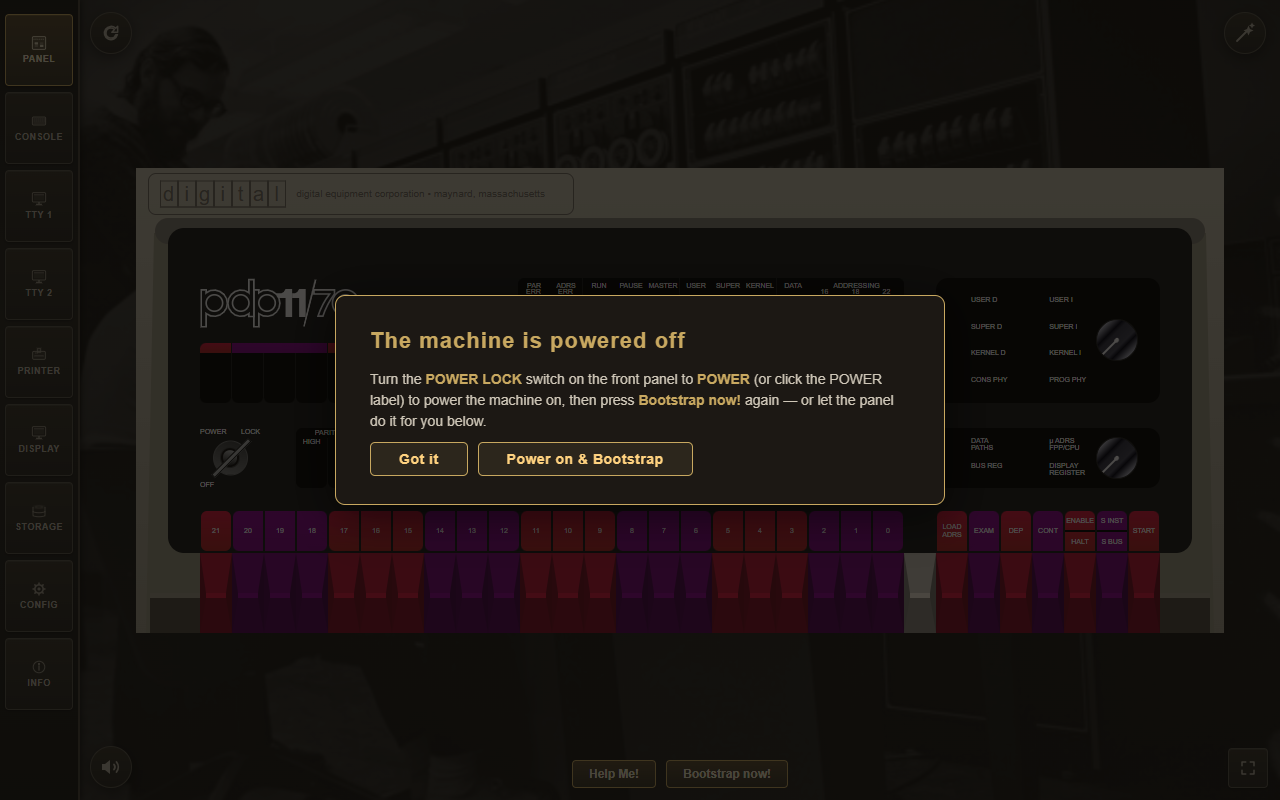
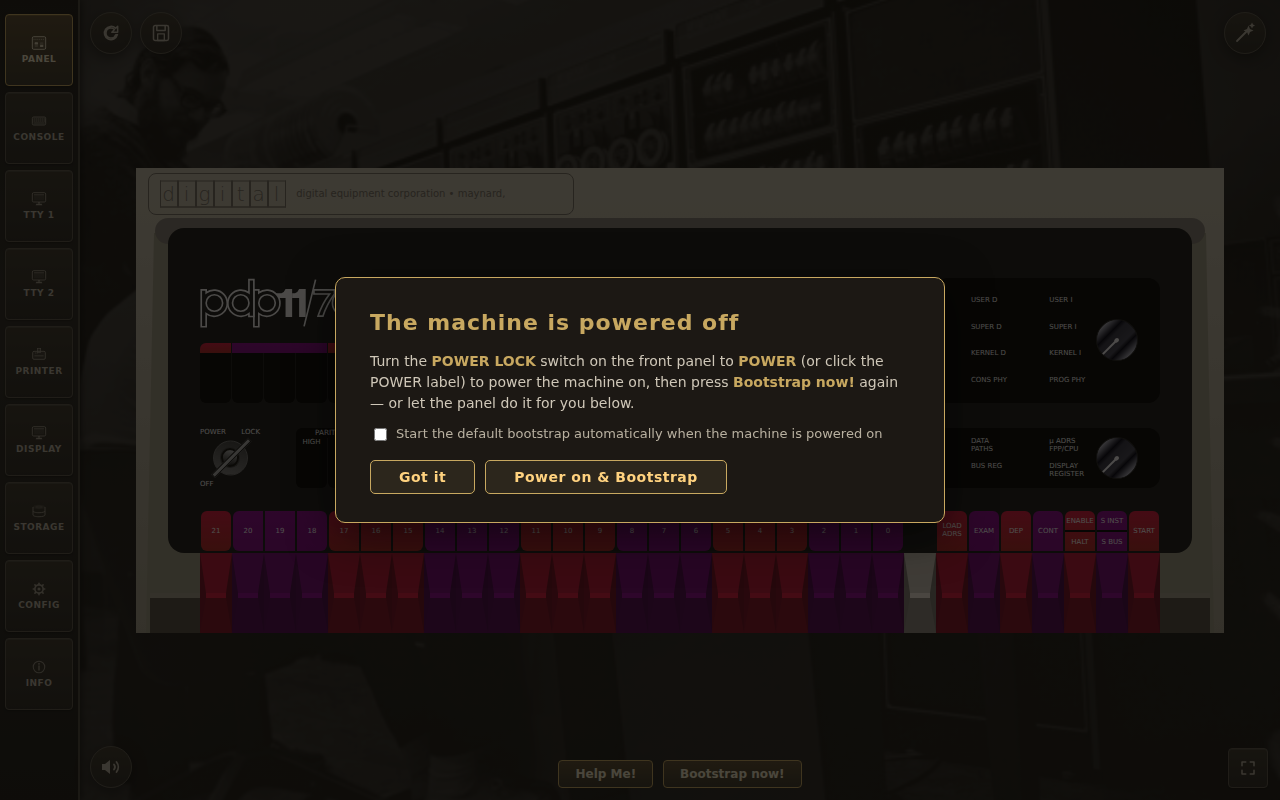
Docs: machine-state (STATE button) in README + manual; refresh screenshots
Reflect the recent UI changes in the user documentation (per Alexei):

- manual.html: new 'Machine State (STATE button)' section (full save/restore
  of the emulated machine: CPU, memory, I/O devices, paper, VT52 screens,
  VT11 picture; Save state / Load / Rename / Delete; states in IndexedDB),
  STATE row in the floating-controls table with its close-up, REBOOT/STATE
  visibility note (Panel, Console, TTY pages), onboarding paragraph mentions
  the new Quick boot button, power-off dialog paragraph documents the
  Auto-boot checkbox shortcut.
- README.md: machine-state paragraph next to REBOOT; quick-boot section
  notes the welcome-dialog Quick boot button.
- tools/screenshots-manual.js: btn-state.png close-up added to the button
  shots; dialog-state.png capture (STATE dialog with one saved state) added
  to the dialog set; CLI selector now matches file names with and without
  the .png suffix (single-shot mode for page shots was broken); launch
  honours PUPPETEER_NO_SANDBOX=1 for sandboxed CI/container environments.
- Regenerated: panel, storage, console-vt52 (STATE button now visible),
  dialog-onboarding (Quick boot button), dialog-poweroff (Auto-boot
  checkbox); new: btn-state, dialog-state.

Screenshot DOM states verified with a puppeteer pass (onboarding buttons,
power-off checkbox, state dialog with one entry). npm test exit 0.

diff --git a/manual.html b/manual.html
@@ -287,6 +287,7 @@
                 <li><a href="#printer">The LP11 Line Printer (Printer page)</a></li>
                 <li><a href="#vt11">The VT11 Vector Display (Display page)</a></li>
                 <li><a href="#storage">Storage (paper tape, disk & tape images)</a></li>
+                <li><a href="#machine-state">Machine State (STATE button)</a></li>
                 <li><a href="#config">Configuration (Config page)</a></li>
                 <li><a href="#guest-oses">Guest Operating Systems</a></li>
                 <li><a href="#controls">Buttons, Shortcuts & Indicators</a></li>
@@ -300,7 +301,9 @@
 
             <p>
                 On your very first launch the emulator greets you with a short onboarding hint that explains what to do
-                right away — which page to open, the mounted guest OSes and their boot commands:
+                right away — which page to open, the mounted guest OSes and their boot commands. A <b>Quick boot</b>
+                button next to <b>Got it</b> opens the wizard directly, so a first-time user can see a guest OS running
+                in one click:
             </p>
 
             <p><img class="shot" src="assets/images/manual/dialog-onboarding.png" alt="First-run onboarding hint"></p>
@@ -383,6 +386,12 @@
             <p><img class="shot" src="assets/images/manual/dialog-poweroff.png" alt="Bootstrap now! power-off guard">
             </p>
             <p class="shot-caption">Bootstrap now! requires the machine to be powered on first.</p>
+
+            <p>
+                The dialog also offers a shortcut to the CONFIG <b>Auto-boot</b> option: tick the checkbox to start
+                the default bootstrap automatically on every future power-on, without visiting the Config page. The
+                choice persists and stays in sync with the CONFIG page checkbox.
+            </p>
 
             <hr>
 
@@ -538,6 +547,37 @@
                 <em>Note:</em> the paper-tape reader is driven by the console bytes — every byte echoed to the console
                 punches a matching row of holes on the ASR paper tape.
             </blockquote>
+
+            <hr>
+
+            <h2 id="machine-state">Machine State (STATE button)</h2>
+
+            <p>
+                The round <b>STATE</b> button (top-left corner, right of REBOOT) opens the machine-state dialog — a
+                full save/restore of the emulated PDP‑11, not just the CPU: registers, memory, every I/O device
+                (console, terminals, printer, disks, tape and the paper-tape reader/punch), the paper in the teletype
+                and LP11, the VT52 screen contents and even the VT11 vector-display picture are all captured. Think of
+                it as a save file of the whole machine.
+            </p>
+
+            <p><img class="shot" src="assets/images/manual/dialog-state.png" alt="The machine-state dialog"></p>
+            <p class="shot-caption">The machine-state dialog with one freshly saved state.</p>
+
+            <ul>
+                <li><b>Save state</b> — captures the machine exactly as it is right now under an auto-generated name
+                    (date and time). The hardware configuration is part of the state: restoring it re-applies the
+                    console type, user terminals, printer and VT11 display, restarting the machine to match.</li>
+                <li><b>Load</b> — restores the selected state and restarts the machine; a confirmation asks first.
+                    States saved by older versions of the emulator keep working.</li>
+                <li><b>Rename / Delete</b> — organise the list or remove states; the counter next to the list shows
+                    how many states you have.</li>
+            </ul>
+
+            <p>
+                The STATE button mirrors REBOOT and is available on the <b>Panel</b>, <b>Console</b> (teletype or
+                VT52) and <b>TTY</b> pages. States are stored in the browser's IndexedDB and survive reloads and
+                sessions.
+            </p>
 
             <hr>
 
@@ -786,10 +826,19 @@
                             <img class="control-btn" src="assets/images/manual/btn-reboot.png" alt="REBOOT button">
                             <span class="control-name">REBOOT</span>
                         </td>
-                        <td>Top-left corner, just right of the sidebar</td>
+                        <td>Top-left corner, just right of the sidebar (Panel, Console and TTY pages)</td>
                         <td>Round button with a restart icon. Restarts the machine; when Auto-boot is enabled it
                             also boots the built-in default loader. By default a confirmation dialog asks first, with
                             a "Don't show this warning anymore" option.</td>
+                    </tr>
+                    <tr>
+                        <td class="disk control-cell">
+                            <img class="control-btn" src="assets/images/manual/btn-state.png" alt="STATE button">
+                            <span class="control-name">STATE</span>
+                        </td>
+                        <td>Top-left corner, right of REBOOT (Panel, Console and TTY pages)</td>
+                        <td>Machine-state dialog — saves and restores the whole emulated machine (CPU, memory,
+                            devices, paper, terminal screens). See <a href="#machine-state">Machine State</a>.</td>
                     </tr>
                     <tr>
                         <td class="disk control-cell">

diff --git a/tools/screenshots-manual.js b/tools/screenshots-manual.js
@@ -156,6 +156,7 @@ const SHOTS_VT52 = [
 const BUTTON_SHOTS = [
     { id: "#quick-boot-btn", file: "btn-magicwand.png" },
     { id: "#reboot-btn",     file: "btn-reboot.png" },
+    { id: "#state-btn",      file: "btn-state.png" },
     { id: "#mute-btn",       file: "btn-mute.png" },
     { id: "#fullscreen-btn", file: "btn-fullscreen.png" }
 ];
@@ -209,12 +210,16 @@ function findBrowserExecutable() {
 
 async function launchBrowser() {
     const executablePath = findBrowserExecutable();
+    // Sandboxed CI/container environments (no unprivileged user namespaces)
+    // need --no-sandbox; opt in via PUPPETEER_NO_SANDBOX=1 so desktop runs
+    // keep the default sandbox.
+    const args = process.env.PUPPETEER_NO_SANDBOX ? ["--no-sandbox"] : [];
     if (executablePath) {
-        return puppeteer.launch({ executablePath, headless: true });
+        return puppeteer.launch({ executablePath, headless: true, args });
     }
     for (const channel of ["msedge", "chrome"]) {
         try {
-            return await puppeteer.launch({ channel, headless: true });
+            return await puppeteer.launch({ channel, headless: true, args });
         } catch (err) { /* try the next channel */ }
     }
     throw new Error(
@@ -440,6 +445,21 @@ async function captureDialogs(browser, wants) {
         });
         await snap(page, "dialog-reboot.png", 600);
     }
+
+    // 8. Machine-state dialog (STATE button) with one freshly saved state.
+    if (wants("dialog-state")) {
+        const page = await open(CFG_TTY);
+        await page.evaluate(() => {
+            const btn = document.getElementById("state-btn");
+            if (btn) btn.click();
+        });
+        await sleep(400);
+        await page.evaluate(() => {
+            const save = document.getElementById("snap-save");
+            if (save) save.click();
+        });
+        await snap(page, "dialog-state.png", 900);
+    }
 }
 
 // Capture the VT11 Display page with Lunar Lander running. The quick-boot
@@ -523,7 +543,8 @@ async function captureVt11Lander(browser) {
         // Lander capture does not force the whole manual batch.
         const selector = (process.argv[2] || "").toLowerCase().replace(/\.png$/, "");
         function wants(name) {
-            return !selector || name.toLowerCase() === selector;
+            return !selector ||
+                name.toLowerCase().replace(/\.png$/, "") === selector;
         }
 
         fs.mkdirSync(OUT_DIR, { recursive: true });
@@ -544,7 +565,7 @@ async function captureVt11Lander(browser) {
         if (wants("dialog-onboarding") || wants("dialog-quickboot") ||
             wants("dialog-autoload") || wants("dialog-imgerror") ||
             wants("dialog-poweroff") || wants("dialog-config-leave") ||
-            wants("dialog-reboot")) {
+            wants("dialog-reboot") || wants("dialog-state")) {
             await captureDialogs(browser, wants);
         }
         if (wants("vt11")) {

diff --git a/README.md b/README.md
@@ -207,7 +207,9 @@ not shipped and points to the Drop zone.
 ### Quick boot (magic wand)
 
 A magic-wand button in the top-right corner of the window (visible on every
-page except the **Info** page) opens a picker for every guest OS. Choosing one
+page except the **Info** page) opens a picker for every guest OS. The
+first-run welcome dialog also has a **Quick boot** button that opens the same
+picker directly. Choosing one
 switches to the operator console,
 reboots the machine and types `boot <dev>` — and where the credentials are
 known, the login too (e.g. Unix V5: `boot rk0` → `unix` → `root`). The boot
@@ -462,6 +464,18 @@ built-in default loader. By default a confirmation dialog asks first, with a
 "Don't show this warning
 anymore" option. The warning can be restored at any time from the Config
 page's **Behaviour** tab.
+
+Next to REBOOT sits the round **STATE** button — the machine-state dialog. It
+saves and restores the whole emulated PDP-11, not just the CPU: registers,
+memory, every I/O device (console, terminals, printer, disks, tape and the
+paper-tape reader/punch), the paper in the teletype and LP11, the VT52 screen
+contents and the VT11 vector picture. **Save state** captures the machine as
+it is now under an auto-generated name; **Load** restores a state (re-applying
+its hardware configuration and restarting the machine, with a confirmation
+first), and **Rename / Delete** organise the list. States live in the
+browser's IndexedDB, survive reloads and sessions, and states saved by older
+emulator versions keep working. Both buttons appear on the Panel, Console
+(teletype or VT52) and TTY pages.
 
 The **Printer** page renders the LP11 output on an animated paper machine (no
 keyboard) and offers **Print** (send the accumulated jobs to the real OS printer
